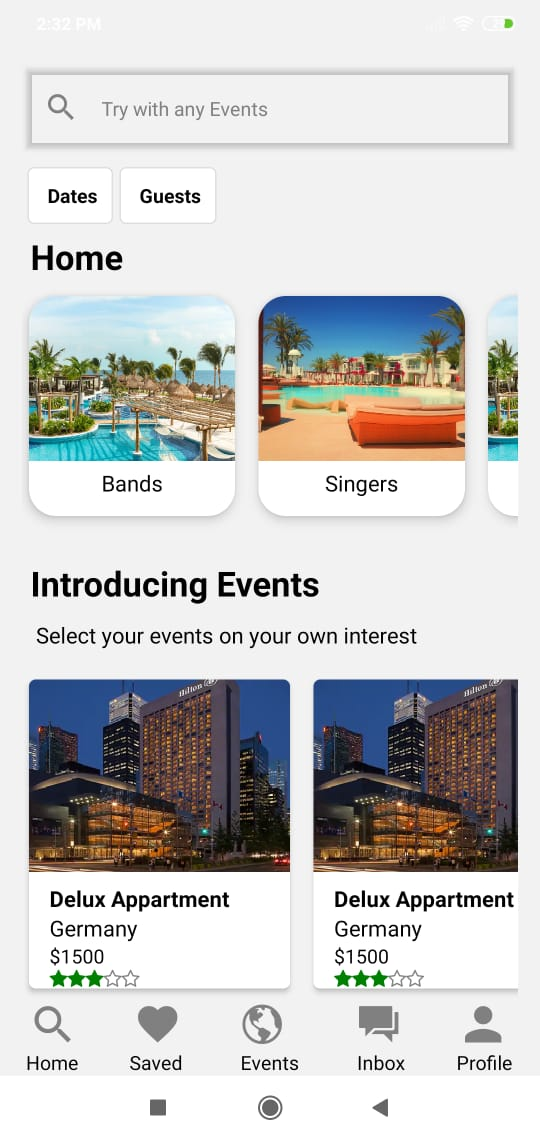
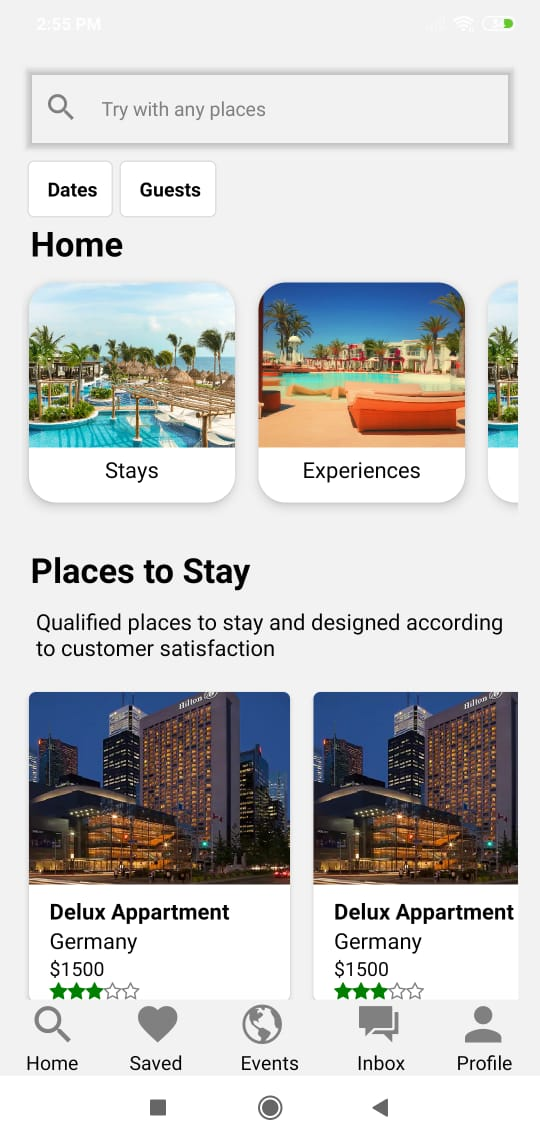
changes

diff --git a/App/Login/signIn.js b/App/Login/signIn.js
@@ -111,7 +111,7 @@ export default class SignIn extends React.Component {
               <TextInput
                 style={styles.input}
                 underlineColorAndroid="transparent"
-                placeholder="Try with any Events"
+                placeholder="Try with any places"
                 placeholderTextColor="#808080"
                 autoCapitalize="none"
                 autoCorrect={false}
@@ -221,7 +221,7 @@ export default class SignIn extends React.Component {
                     source={require("../../assets/hotel.jpg")}
                   />
                 </TouchableOpacity>
-                <Text style={styles.listText}> Bands </Text>
+                <Text style={styles.listText}> Stays </Text>
               </View>
 
               <View style={styles.square}>
@@ -240,7 +240,7 @@ export default class SignIn extends React.Component {
                     }}
                     source={require("../../assets/hotel.png")}
                   />
-                  <Text style={styles.listText}> Singers </Text>
+                  <Text style={styles.listText}> Experiences </Text>
                 </TouchableOpacity>
               </View>
               <View style={styles.square}>
@@ -258,9 +258,10 @@ export default class SignIn extends React.Component {
               </View>
             </ScrollView>
             <View>
-              <Text style={styles.titleText}> Introducing Events </Text>
+              <Text style={styles.titleText}> Places to Stay </Text>
               <Text style={{ margin: 10, fontSize: 16 }}>
-                Select your events on your own interest
+                Qualified places to stay and designed according to customer
+                satisfaction
               </Text>
               <ScrollView
                 horizontal={true}
